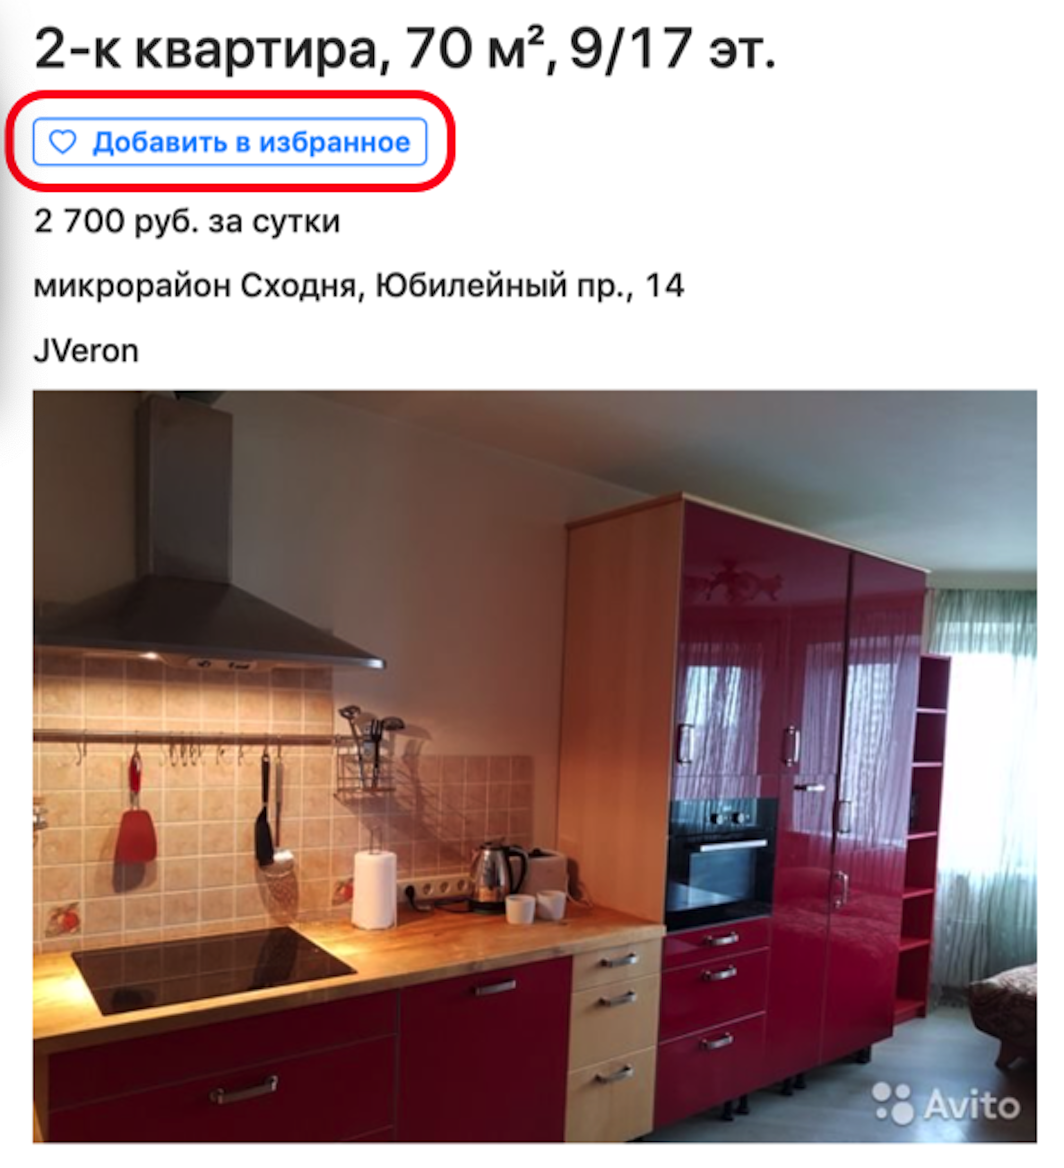
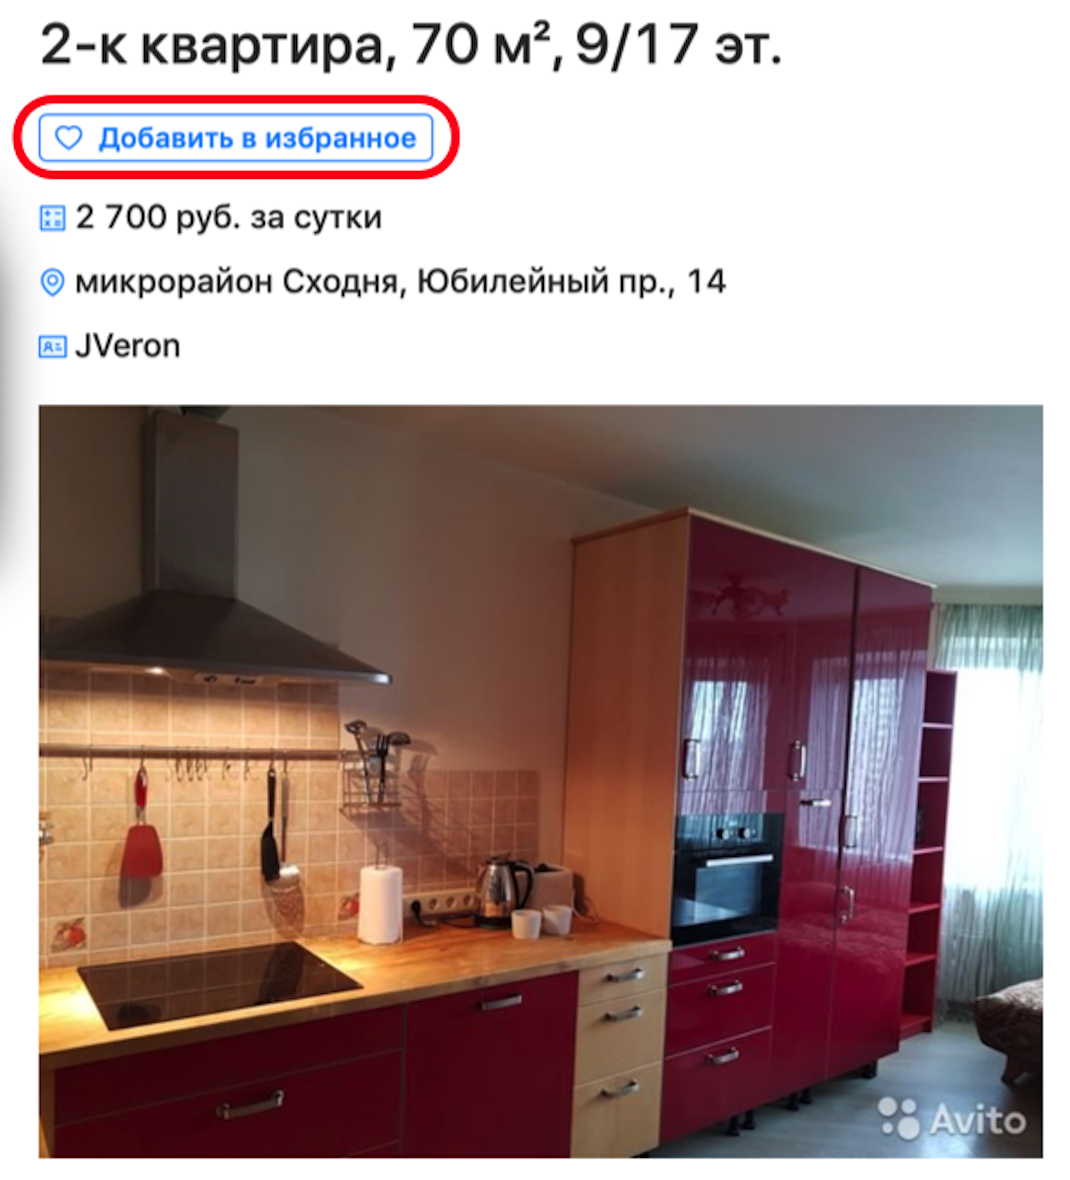
add new component, rename classes

diff --git a/src/components/ExtendObject.vue b/src/components/ExtendObject.vue
@@ -1,43 +1,34 @@
 <template>
   <div class="extend-object">
-    <div class="extend-object__info">
+    <div class="extend-object-info">
       <h1>{{title}}</h1>
       <a-button
       @click="changeLiked"
       type="default"
       size="small"
       icon="heart"
-      class="liked-button extend-object__liked-button"
+      class="liked-button extend-object-liked-button"
       :class="{active__button: liked }">
         {{titleButton}}
       </a-button>
-      <div>
-        <a-icon type="calculator" theme="twoTone" class="display-inline-block"/>
-        <h3 class="display-inline-block">{{price}}</h3>
-      </div>
-      <div>
-        <a-icon type="environment" theme="twoTone" class="display-inline-block"/>
-        <h3 class="display-inline-block">{{address}}</h3>
-      </div>
-      <div>
-        <a-icon type="idcard" theme="twoTone" class="display-inline-block"/>
-        <h3 class="display-inline-block">{{sellerName}}</h3>
-      </div>
+      <Info :data="price" type-icon="calculator"/>
+      <Info :data="address" type-icon="environment"/>
+      <Info :data="sellerName" type-icon="idcard"/>
     </div>
-    <h3 class="extend-object__description">{{description}}</h3>
-    <a-carousel>
+    <h3 class="extend-object-description">{{description}}</h3>
+    <a-carousel class="extend-object-carousel">
       <a
       slot="customPaging"
       slot-scope="props">
         <img
-        class="img-reference"
+        class="extend-object-img-reference"
         :src="getImgUrl(props.i)" />
       </a>
       <div
       v-for="(image, index) in images"
       :key="index">
         <img
-        class="img-full"
+        class="extend-object-img-full"
         :src="image"/>
       </div>
     </a-carousel>
@@ -46,9 +37,13 @@
 
 <script>
 import axios from 'axios'
+import Info from './Info'
 
 export default {
   name: 'ExtendObject',
+  components: {
+    Info
+  },
   data: function () {
     return {
       liked: false,
@@ -98,26 +93,34 @@ export default {
 .extend-object {
   margin: 30px;
 }
-.ant-carousel {
+
+.extend-object-carousel {
   max-width: 600px;
   max-height: 900px;
-  padding: 10px 30px 100px 0;
+  padding: 5px 30px 100px 0;
 }
-.img-full {
+
+.extend-object-img-full {
   max-width: 500px;
   max-height: 500px;
   padding-bottom: 20px;
 }
-.img-reference {
+
+.extend-object-img-reference {
   max-width: 100px;
   max-height: 100px;
 }
 
-.extend-object__liked-button {
+.extend-object-img-reference:hover {
+  border: 3px solid dodgerblue;
+}
+
+.extend-object-liked-button {
   position: static;
   margin-bottom: 15px;
 }
-.extend-object__description {
+
+.extend-object-description {
   display: inline-block;
   vertical-align: bottom;
   max-width: 650px;
@@ -125,15 +128,10 @@ export default {
   border: 2px solid dodgerblue;
   border-radius: 5px;
 }
-.extend-object__info {
+
+.extend-object-info {
   display: inline-block;
   width: 600px;
   margin-right: 20px;
-}
-.display-inline-block {
-  display: inline-block;
-}
-a:hover img  {
-  border: 3px solid dodgerblue;
 }
 </style>

diff --git a/src/components/Object.vue b/src/components/Object.vue
@@ -1,28 +1,28 @@
 <template>
   <div class="object">
-    <div class="object__img">
+    <div class="object-full-img">
       <img
       @click="goToExtend"
       :src="previewImage"
-      class="object__cursor"/>
+      class="object-img"/>
       <a-button
       @click="changeLiked"
       type="default"
       size="small"
       icon="heart"
-      class="liked-button object__liked-button"
+      class="liked-button object-liked-button"
       :class="{active__button: liked }"/>
     </div>
-    <div class="object__info">
+    <div class="object-info">
       <h3
       @click="goToExtend"
-      class="object__reference object__cursor">
+      class="object-reference">
         {{title}}
       </h3>
-      <h3 class="object__price">
+      <h3 class="object-price">
         {{price}}
       </h3>
-      <h3 class="object__address">
+      <h3 class="object-address">
         {{address}}
       </h3>
     </div>
@@ -95,41 +95,42 @@ export default {
   vertical-align: middle;
   color: dodgerblue;
 }
-.object__cursor {
-  cursor: pointer;
-}
 
-.object__reference {
-  color: dodgerblue;
-}
-
-.object__reference:hover {
-  color: red;
-}
-
-.object__info h3 {
+.object-price, .object-address, .object-reference {
   margin: 2px;
 }
 
-.object__price {
+.object-price {
   font-weight: bold;
 }
 
-.object__address {
+.object-address {
   opacity: 0.6;
   font-weight: normal;
 }
 
-.object__img {
+.object-reference {
+  color: dodgerblue;
+}
+
+.object-reference:hover {
+  color: red;
+}
+
+.object-reference, .object-img {
+  cursor: pointer;
+}
+
+.object-full-img {
   position: relative;
 }
 
-.object__img img {
+.object-img {
   width: 100%;
   height: 156px;
 }
 
-.object__liked-button {
+.object-liked-button {
   position: absolute;
   bottom: 85%;
   left: 85%;

diff --git a/src/components/LikedObject.vue b/src/components/LikedObject.vue
@@ -1,7 +1,7 @@
 <template>
   <div class="liked-object">
     <h1>Избранное</h1>
-    <div class="liked-object__none"
+    <div class="liked-object-none"
     v-if="!objects.length">
       <h2>Как добавить объявление в избранное?</h2>
       <h3>На страницах списка объявлений или объявления нажмите на сердечко рядом с заголовком.</h3>
@@ -36,11 +36,11 @@ export default {
 .liked-object {
   margin: 20px;
 }
-.liked-object__none h2, .liked-object__none h3 {
+.liked-object-none h2, .liked-object-none h3 {
   font-weight: 500;
   text-align: center;
 }
-.liked-object__none img {
+.liked-object-none img {
   height: 350px;
   border: black solid 2px;
   border-radius: 8px;

diff --git a/src/components/Home.vue b/src/components/Home.vue
@@ -3,10 +3,8 @@
       <a-button
       type="link"
       size="large"
-      @click="goToLiked">
-        Избранное
-      </a-button>
-      <h2>Недвижимость</h2>
+      @click="goToLiked">Избранное</a-button>
+      <h2 class="home-title">Недвижимость</h2>
       <Object
       v-for="objectInfo in objects"
       :key="objectInfo.id"
@@ -47,12 +45,11 @@ export default {
   -webkit-font-smoothing: antialiased;
   -moz-osx-font-smoothing: grayscale;
   text-decoration: none;
-  margin: 10px;
+  padding: 10px;
 }
-.home h2 {
+
+.home-title {
   font-weight: bold;
-}
-a-button {
-  padding: 4px;
+  margin-left: 10px;
 }
 </style>

diff --git a/src/components/Info.vue b/src/components/Info.vue
@@ -1,0 +1,33 @@
+<template>
+  <div>
+    <a-icon
+    :type="typeIcon"
+    theme="twoTone"
+    class="info-inline-block"/>
+    <h3 class="info-inline-block">
+      {{data}}
+    </h3>
+  </div>
+</template>
+
+<script>
+export default {
+  name: 'Info',
+  props: {
+    data: {
+      type: String,
+      required: true
+    },
+    typeIcon: {
+      type: String,
+      required: true
+    }
+  }
+}
+</script>
+
+<style scoped>
+.info-inline-block {
+  display: inline-block;
+}
+</style>
